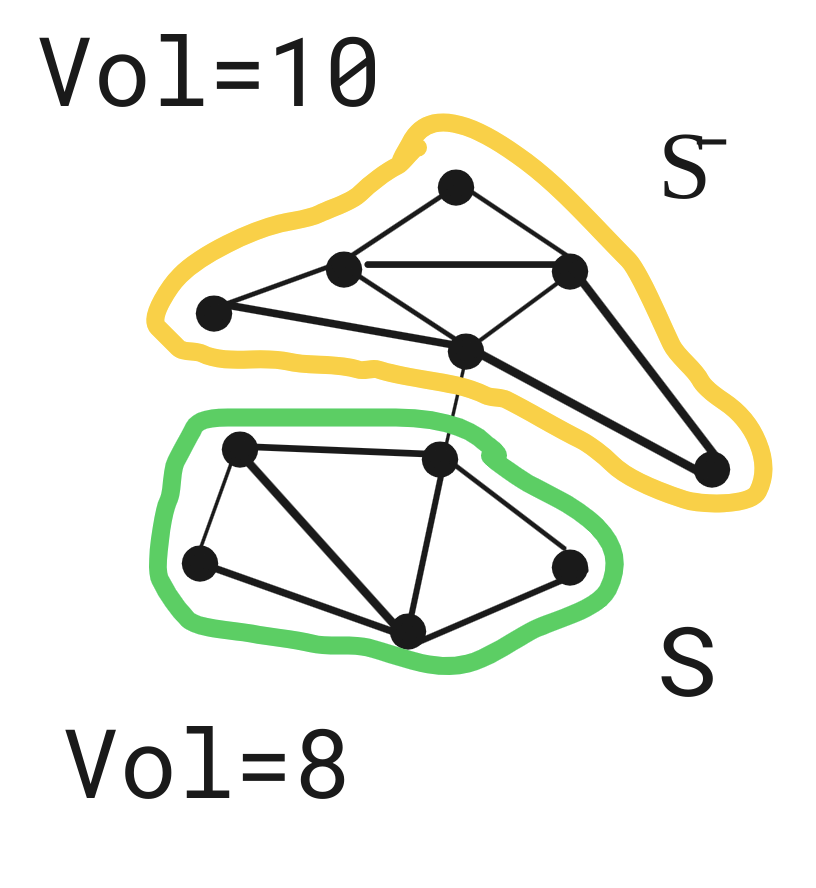
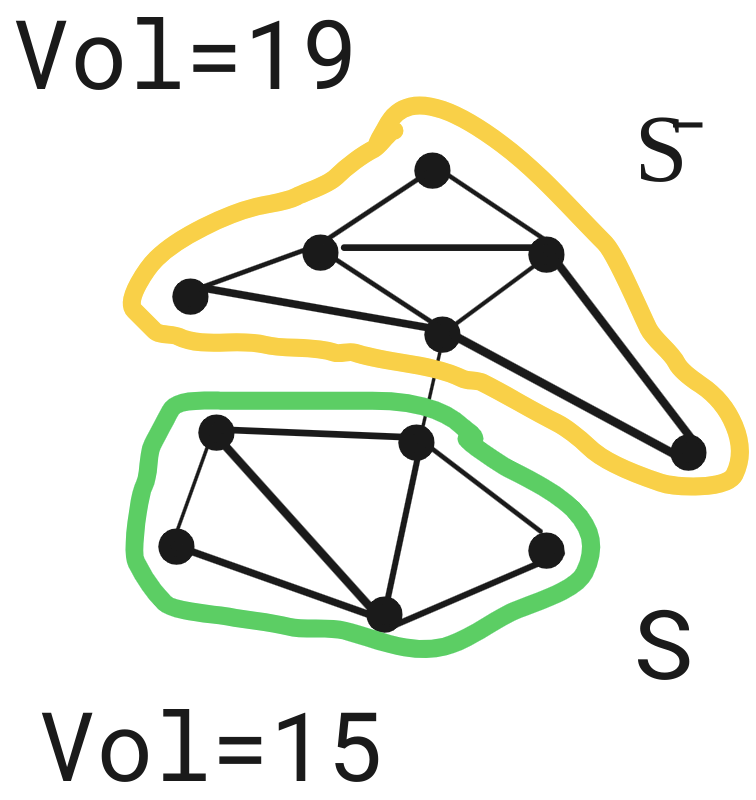
Typo

Changed region(s): [[0.0608, 0.0938, 1.0, 1.0], [0.0, 0.0, 0.4868, 0.125], [0.791, 0.125, 0.9127, 0.25]]

diff --git a/master_thesis_defense_presentation/Sections/introduction.tex b/master_thesis_defense_presentation/Sections/introduction.tex
@@ -22,7 +22,7 @@
 	           		$\phi(S) = \frac{E(S, \bar{S})}{\min(\text{vol}(S), \text{vol}(\bar{S}))}$
 	           	\end{block}
            		
-           		The conductance of the cut $(S, \bar{S})$ in the figure is $\frac{1}{8}$
+           		The conductance of the cut $(S, \bar{S})$ in the figure is $\frac{1}{15}$
             \column{0.5\textwidth}
 	            \includegraphics[width=1.0\textwidth]{conductance.png}
         \end{columns}
